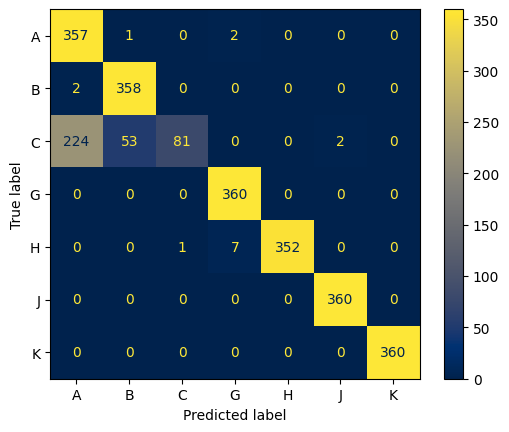
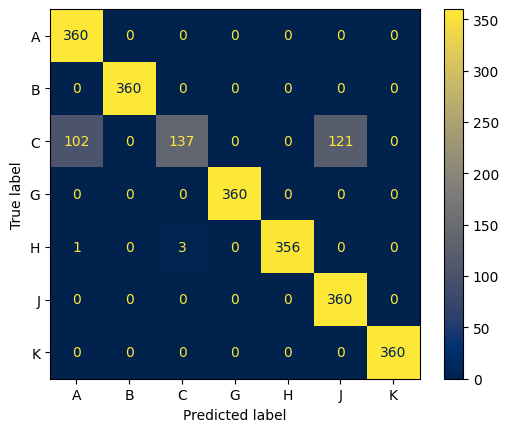
update train.py

diff --git a/SNN/network.py b/SNN/network.py
@@ -14,7 +14,6 @@ class Net(nn.Module):
 
    def train_net(self, train_data, val_data, epochs, optimizer, num_epochs_annealing=22, patience=np.inf):
 
-      train_losses = []
       val_losses = []
       accuracies = []
       best_val_loss = np.Inf
@@ -23,7 +22,6 @@ class Net(nn.Module):
 
       for ep in tqdm(range(epochs)):
          self.train()
-         ep_loss = 0.0
 
          for batch in train_data:
             optimizer.zero_grad()
@@ -33,15 +31,11 @@ class Net(nn.Module):
 
             logits = self(data.to(self.device))
             labels = labels.float().to(self.device)
-            loss = self.loss(labels, logits, ep, num_epochs_annealing)
-
-            ep_loss += loss.item()
+            loss = torch.mean(self.loss(labels, logits, ep, num_epochs_annealing))
 
             # Backpropagation
             loss.backward()
             optimizer.step()
-
-         train_losses.append(ep_loss/len(train_data))
 
          # Evaluation
          val_loss = self.eval_model(val_data, ep, num_epochs_annealing)
@@ -64,12 +58,12 @@ class Net(nn.Module):
       self.load_state_dict(best_model)
       pickle.dump(best_model, open(f'bestmodel{self.__class__}.pkl', 'wb'))
 
-      return train_losses, accuracies, val_losses, best_ep, best_val_loss#, accuracies[best_ep]
+      return accuracies, val_losses, best_ep, best_val_loss#, accuracies[best_ep]
 
    def eval_model(self, val_data, ep, num_epochs_annealing):
       self.eval()
 
-      val_loss = 0.0
+      val_loss = []
 
       with torch.no_grad():
          for batch in val_data:
@@ -83,7 +77,7 @@ class Net(nn.Module):
 
                # acc = accuracy_score(logits.round().cpu(), labels.cpu())
 
-      return val_loss/len(val_data)#, float(acc)
+      return torch.mean(torch.Tensor(val_loss).view(-1).to(self.device))#, float(acc)
 
    def predict_data(self, test_data):
       self.eval()
@@ -138,7 +132,7 @@ class CustomLoss(nn.Module):
         alp = pred * (1 - target) + 1
         C = ll * self.KL(alp)
 
-        return torch.mean(A + B + C)
+        return A + B + C
     
 
 class SNNetwork(Net):
@@ -150,12 +144,10 @@ class SNNetwork(Net):
 
       # initialize layers
       self.antennas_fuse = nn.Conv2d(4, 1, (1,1))
-      self.hidden_linear = nn.Linear(2048, hidden_dim)
-      self.hidden_linear2 = nn.Linear(hidden_dim, hidden_dim)
-      self.hidden_linear3 = nn.Linear(hidden_dim, hidden_dim//2)
+      self.hidden_linear1 = nn.Linear(2048, hidden_dim)
+      self.hidden_linear2 = nn.Linear(hidden_dim, hidden_dim//2)
       self.snn1 = snn.Leaky(.95, reset_mechanism=reset_mechanism, learn_beta=True, learn_threshold=True, reset_delay=False) #
       self.snn2 = snn.Leaky(.95, reset_mechanism=reset_mechanism, learn_beta=True, learn_threshold=True, reset_delay=False) #
-      self.snn3 = snn.Leaky(.95, reset_mechanism=reset_mechanism, learn_beta=True, learn_threshold=True, reset_delay=False) #
 
       # self.time_fuse = nn.Conv1d(num_steps, 1, 1)
       self.output_linear = nn.Linear(hidden_dim//2, output_dim)
@@ -166,7 +158,6 @@ class SNNetwork(Net):
    def forward(self, x):
       mem = self.snn1.init_leaky()
       mem2 = self.snn2.init_leaky()
-      mem3 = self.snn3.init_leaky()
 
       if len(x.shape) < 4: x = x.unsqueeze(0)
 
@@ -177,23 +168,17 @@ class SNNetwork(Net):
       if x.shape[1] != self.num_steps:
          x = x.view(x.shape[0], -1, self.num_steps, x.shape[2]) # [batch, time/steps, steps, freq]
 
-      x = self.hidden_linear(x)
+      x = self.hidden_linear1(x)
       for step in range(self.num_steps):
          sn_input = x[:,:,step,:]
          spk, mem = self.snn1(sn_input, mem)
 
-      hidden = nn.functional.relu(self.hidden_linear2(spk))
-
-      x = hidden.view(hidden.shape[0], -1, 2, hidden.shape[2])
-      for step in range(2):
-         spk2, mem2 = self.snn2(x[:,:,step,:], mem2)
-
-      hidden2 = nn.functional.relu(self.hidden_linear3(spk2))
+      hidden = self.hidden_linear2(spk)
 
       for step in range(x.shape[1]):
-         spk3, mem3 = self.snn3(hidden2[:,step,:], mem3)
+         spk2, mem2 = self.snn2(hidden[:,step,:], mem2)
 
-      out = self.output_linear(spk3)
+      out = self.output_linear(spk2)
 
       return self.softmax(out)
    
@@ -206,11 +191,11 @@ class CNNetwork(Net):
       self.antennas_fuse = nn.Conv2d(4, 1, (1,1))
 
       # initialize layers
-      self.hidden_conv = nn.Conv2d(1, 4, (3,5), stride=(2,2)) # [batch, 1, 30, 2048] -> [batch, 4 14, 1022]
-      self.maxpool = nn.MaxPool2d((2,5)) # [batch, 4, 14, 1022] -> [batch, 4, 7, 204]
-      self.hidden_conv2 = nn.Conv2d(4, 16, (3,11), stride=(2,5)) # [batch, 4, 7, 204] -> [batch, 16, 3, 40]
-      self.maxpool2 = nn.MaxPool2d((1,2)) # [batch, 24, 3, 40] -> [batch, 16, 3, 20]
-      self.hidden_conv3 = nn.Conv2d(16, 25, (3,5), stride=(2,2)) # [batch, 16, 3, 20] -> [batch, 25, 1, 8]
+      self.hidden_conv = nn.Conv2d(1, 4, (5,5), stride=(3,2)) # (3,5), stride=(2,2) 90 -> 32 -> 16 -> 6 -> 3 
+      self.maxpool = nn.MaxPool2d((2,5)) # (2,5)
+      self.hidden_conv2 = nn.Conv2d(4, 16, (5,11), stride=(2,5)) # (3,11), stride=(2,5)
+      self.maxpool2 = nn.MaxPool2d((2,2)) # (1,2)
+      self.hidden_conv3 = nn.Conv2d(16, 25, (3,5), stride=(2,2)) # (3,5), stride=(2,2)
       
       # self.hidden_conv = nn.Conv2d(4, 32, (5,8), stride=(5,8), padding='valid') # [batch, 4, 30, 2048] -> [batch, 32, 6, 256]
       # self.hidden_conv2 = nn.Conv2d(32, 32, (3,8), stride=(3,8), padding='valid') # [batch, 32, 6, 256] -> [batch, 32, 2, 32]
@@ -234,3 +219,53 @@ class CNNetwork(Net):
       x = self.output_linear(self.flatten(x))
 
       return self.softmax(x)
+
+
+
+class SNNetwork2(Net):
+   def __init__(self, hidden_dim, output_dim, num_steps, reset_mechanism='zero', device=None):
+      super().__init__(device=device)
+      assert reset_mechanism in ['zero', 'subtract'], "reset_mechanism must be either 'zero' or 'subtract'"
+
+      self.num_steps = num_steps
+
+      # initialize layers
+      self.antennas_fuse = nn.Conv2d(4, 1, (1,1))
+      self.hidden_linear1 = nn.Linear(2048, hidden_dim)
+      self.hidden_linear2 = nn.Linear(hidden_dim, 1)
+      self.snn1 = snn.Leaky(.95, reset_mechanism=reset_mechanism, learn_beta=True, learn_threshold=True, reset_delay=False)
+      self.snn2 = snn.Leaky(.95, reset_mechanism=reset_mechanism, learn_beta=True, learn_threshold=True, reset_delay=False)
+
+      # self.loss = CustomLoss(num_outputs=output_dim, device=device)
+
+   def forward(self, x):
+      mem = self.snn1.init_leaky()
+      mem2 = self.snn2.init_leaky()
+
+      if len(x.shape) < 4: x = x.unsqueeze(0)
+
+      x = x.permute(0, 3, 1, 2)
+      x = self.antennas_fuse(x)
+      x = x.squeeze(1)
+
+      if x.shape[1] != self.num_steps:
+         x = x.view(x.shape[0], 2, -1, self.num_steps, x.shape[2])
+
+      x = self.hidden_linear1(x)
+      spks = torch.zeros(x.shape[0], x.shape[1], x.shape[2], x.shape[3], x.shape[4], device=self.device) # [batch, 2, time/steps, steps, hdim]
+      for step in range(self.num_steps):
+         sn_input = x[:,:,:,step,:]
+         spk, mem = self.snn1(sn_input, mem)
+
+         spks[:,:,:,step,:] = spk
+      
+      hidden = self.hidden_linear2(spks.sum(dim=3))
+      hidden = hidden.squeeze(3) # [batch, 2, time/steps]
+      spks = torch.zeros(hidden.shape[0], hidden.shape[1], hidden.shape[2], device=self.device)
+
+      for step in range(hidden.shape[2]):
+         spk2, mem2 = self.snn2(hidden[:,:,step], mem2)
+
+         spks[:,:,step] = spk2
+
+      return spks

diff --git a/SNN/train.py b/SNN/train.py
@@ -80,12 +80,13 @@ def load_train_data():
     max_val = max([torch.max(train_csi), torch.max(val_csi)])
     train_csi = torch.true_divide(train_csi, max_val)
     val_csi = torch.true_divide(val_csi, max_val)
-    indices = torch.randperm(train_csi.size(0))
+    train_indices = torch.randperm(train_csi.size(0))
+    val_indices = torch.randperm(val_csi.size(0))
     gc.collect()
-    
+
     # create Datasets and DataLoaders
-    csi_trainset = CsiDataset(train_csi[indices], train_labels[indices])
-    csi_valset = CsiDataset(val_csi, val_labels)
+    csi_trainset = CsiDataset(train_csi[train_indices], train_labels[train_indices])
+    csi_valset = CsiDataset(val_csi[val_indices], val_labels[val_indices])
 
     csi_dataloader = DataLoader(csi_trainset, batch_size=BATCH_SIZE)
     csi_valloader = DataLoader(csi_valset, batch_size=BATCH_SIZE)
@@ -106,7 +107,7 @@ def test_net(model, test, name):
     # Save the confusion matrix
     disp = ConfusionMatrixDisplay(confusion_matrix=cm, display_labels=ACTIONS)
     cmdisp = disp.plot(cmap="cividis")
-    cmdisp.figure_.savefig(f"SNN/ConfMat{name}.png", bbox_inches='tight')
+    cmdisp.figure_.savefig(f"SNN/results/ConfMat{name}.png", bbox_inches='tight')
 
 def load_test_data(set=2):
     test_csi = torch.Tensor()
@@ -157,13 +158,13 @@ train, val = load_train_data()
 # Set the device
 device = torch.device('cuda:2' if torch.cuda.is_available() else 'cpu')
 
-modelSnn = SNNetwork(200, len(ACTIONS), 5, reset_mechanism='subtract', device=device).to(device)
+modelSnn = SNNetwork(50, len(ACTIONS), 2, reset_mechanism='subtract', device=device).to(device)
 modelSnn.train_net(
     train,
     val,
-    35,
-    torch.optim.Adam(modelSnn.parameters(), lr=0.0001),
-    num_epochs_annealing=24,
+    20,
+    torch.optim.Adam(modelSnn.parameters(), lr=0.0009053778099794136),
+    num_epochs_annealing=18,
     patience=5
 )
 
@@ -186,8 +187,8 @@ for set, name in zip([2, 6, 5, 4], ['Sub', 'Env', 'Day', 'Same']):
     # Load the test data
     test_set = load_test_data(set)
 
-    test_net(modelSnn, test_set, f'SNN{name}')
-    test_net(modelCnn, test_set, f'CNN{name}')
+    test_net(modelSnn, test_set, f'SNN{name}3s')
+    test_net(modelCnn, test_set, f'CNN{name}3s')
     print(f"Tested on {name} dataset")
     del test_set
     gc.collect()
